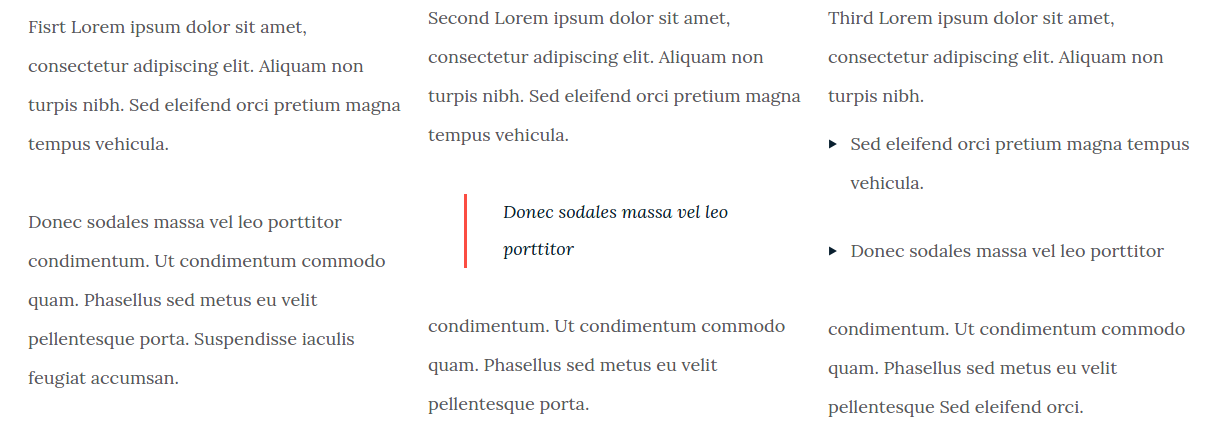
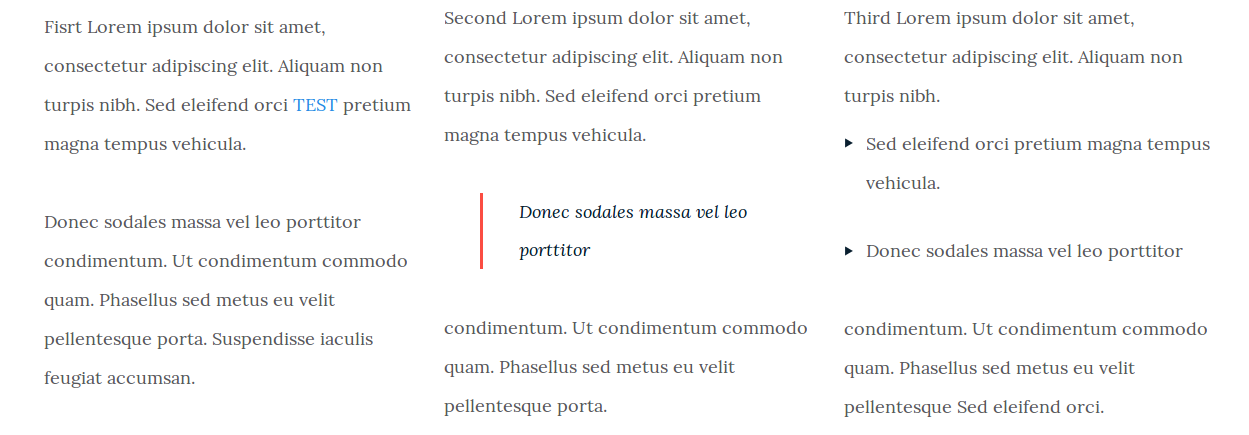
Add local link capabilities to text_col_3.

diff --git a/_includes/text_col_3.html b/_includes/text_col_3.html
@@ -9,6 +9,8 @@
                 {{ item.blurb }}
               {% elsif item.img %}
                 <img src="{{ site.url }}/{{ item.img }}" />
+              {% elsif item.link %}
+                <a href="{{ site.url }}{{ item.link.path }}">{{ item.link.title }}</a>
               {% else %}
                 {{ item }}
               {% endif %}

diff --git a/_source/md/fy18_recommended/example.md b/_source/md/fy18_recommended/example.md
@@ -154,12 +154,18 @@ components:
     img: https://www.boston.gov/sites/default/files/styles/grid_card_image/public/bayvillage3.jpg?itok=iDf79UIP
     link: /
 - text_col_3:
-  - col: >
-      <p>Fisrt Lorem ipsum dolor sit amet, consectetur adipiscing elit. Aliquam non turpis nibh.
-      Sed eleifend orci pretium magna tempus vehicula. </p>
-      <p>Donec sodales massa vel leo porttitor
-      condimentum. Ut condimentum commodo quam. Phasellus sed metus eu velit pellentesque
-      porta. Suspendisse iaculis feugiat accumsan.</p>
+  - col:
+    - blurb: > 
+        <p>Fisrt Lorem ipsum dolor sit amet, consectetur adipiscing elit. Aliquam non turpis nibh.
+        Sed eleifend orci 
+    - link:
+       title: TEST
+       path: /
+    - blurb: > 
+        pretium magna tempus vehicula. </p>
+        <p>Donec sodales massa vel leo porttitor
+        condimentum. Ut condimentum commodo quam. Phasellus sed metus eu velit pellentesque
+        porta. Suspendisse iaculis feugiat accumsan.</p>
   - col: >
       Second Lorem ipsum dolor sit amet, consectetur adipiscing elit. Aliquam non turpis nibh.
       Sed eleifend orci pretium magna tempus vehicula.

diff --git a/README.md b/README.md
@@ -268,12 +268,18 @@ spanning_image:
 
 ```
 - text_col_3:
-  - col: >
-      <p>Fisrt Lorem ipsum dolor sit amet, consectetur adipiscing elit. Aliquam non turpis nibh.
-      Sed eleifend orci pretium magna tempus vehicula. </p>
-      <p>Donec sodales massa vel leo porttitor
-      condimentum. Ut condimentum commodo quam. Phasellus sed metus eu velit pellentesque
-      porta. Suspendisse iaculis feugiat accumsan.</p>
+  - col:
+    - blurb: > 
+        <p>Fisrt Lorem ipsum dolor sit amet, consectetur adipiscing elit. Aliquam non turpis nibh.
+        Sed eleifend orci 
+    - link:
+       title: TEST
+       path: /
+    - blurb: > 
+        pretium magna tempus vehicula. </p>
+        <p>Donec sodales massa vel leo porttitor
+        condimentum. Ut condimentum commodo quam. Phasellus sed metus eu velit pellentesque
+        porta. Suspendisse iaculis feugiat accumsan.</p>
   - col: >
       Second Lorem ipsum dolor sit amet, consectetur adipiscing elit. Aliquam non turpis nibh.
       Sed eleifend orci pretium magna tempus vehicula.
